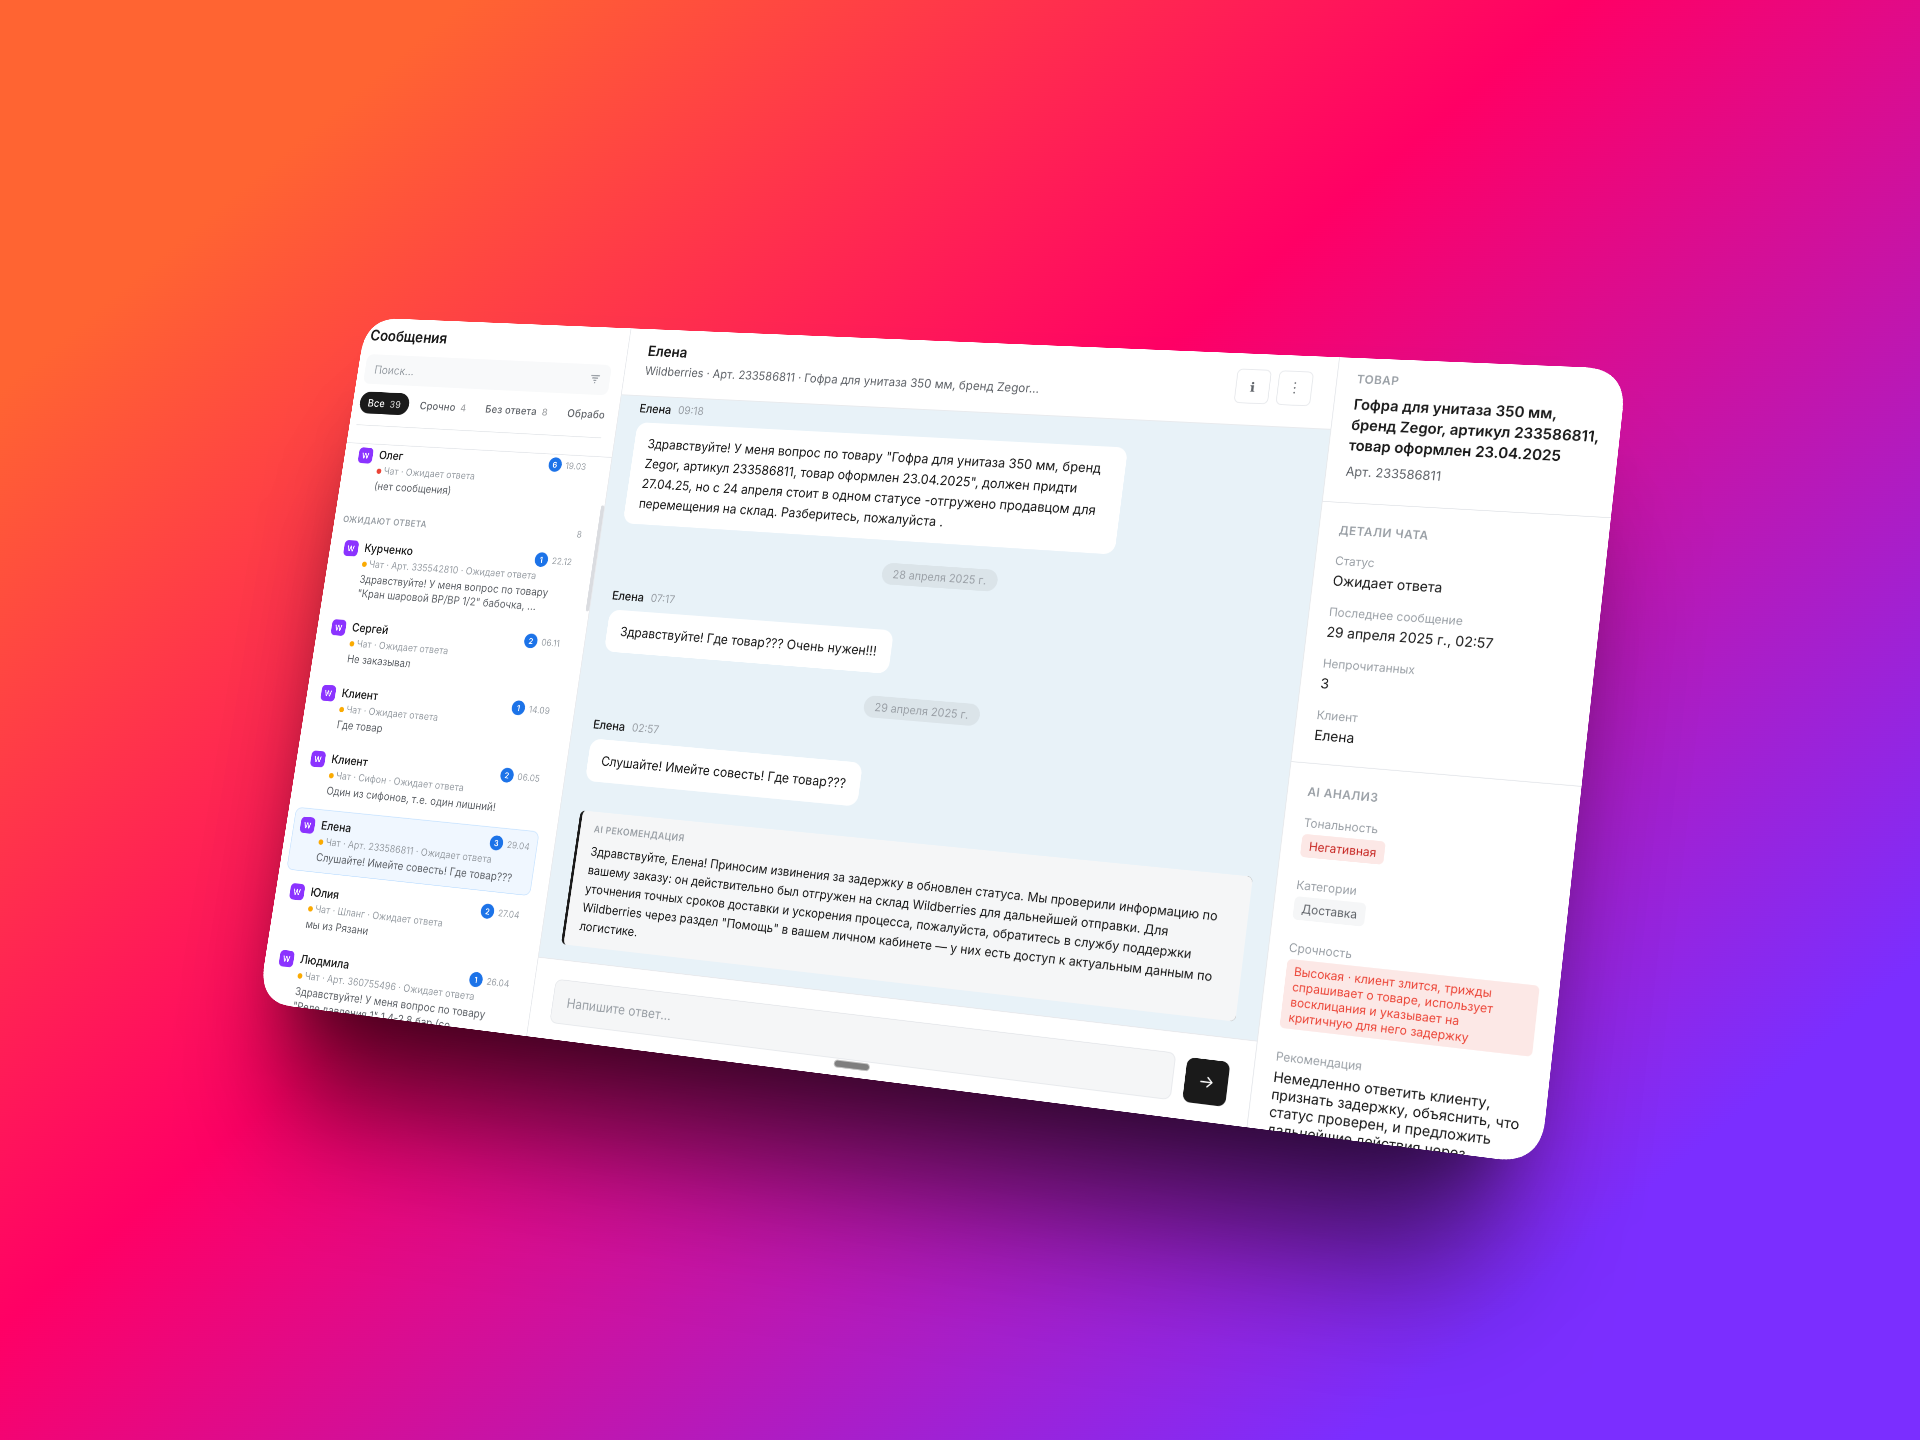
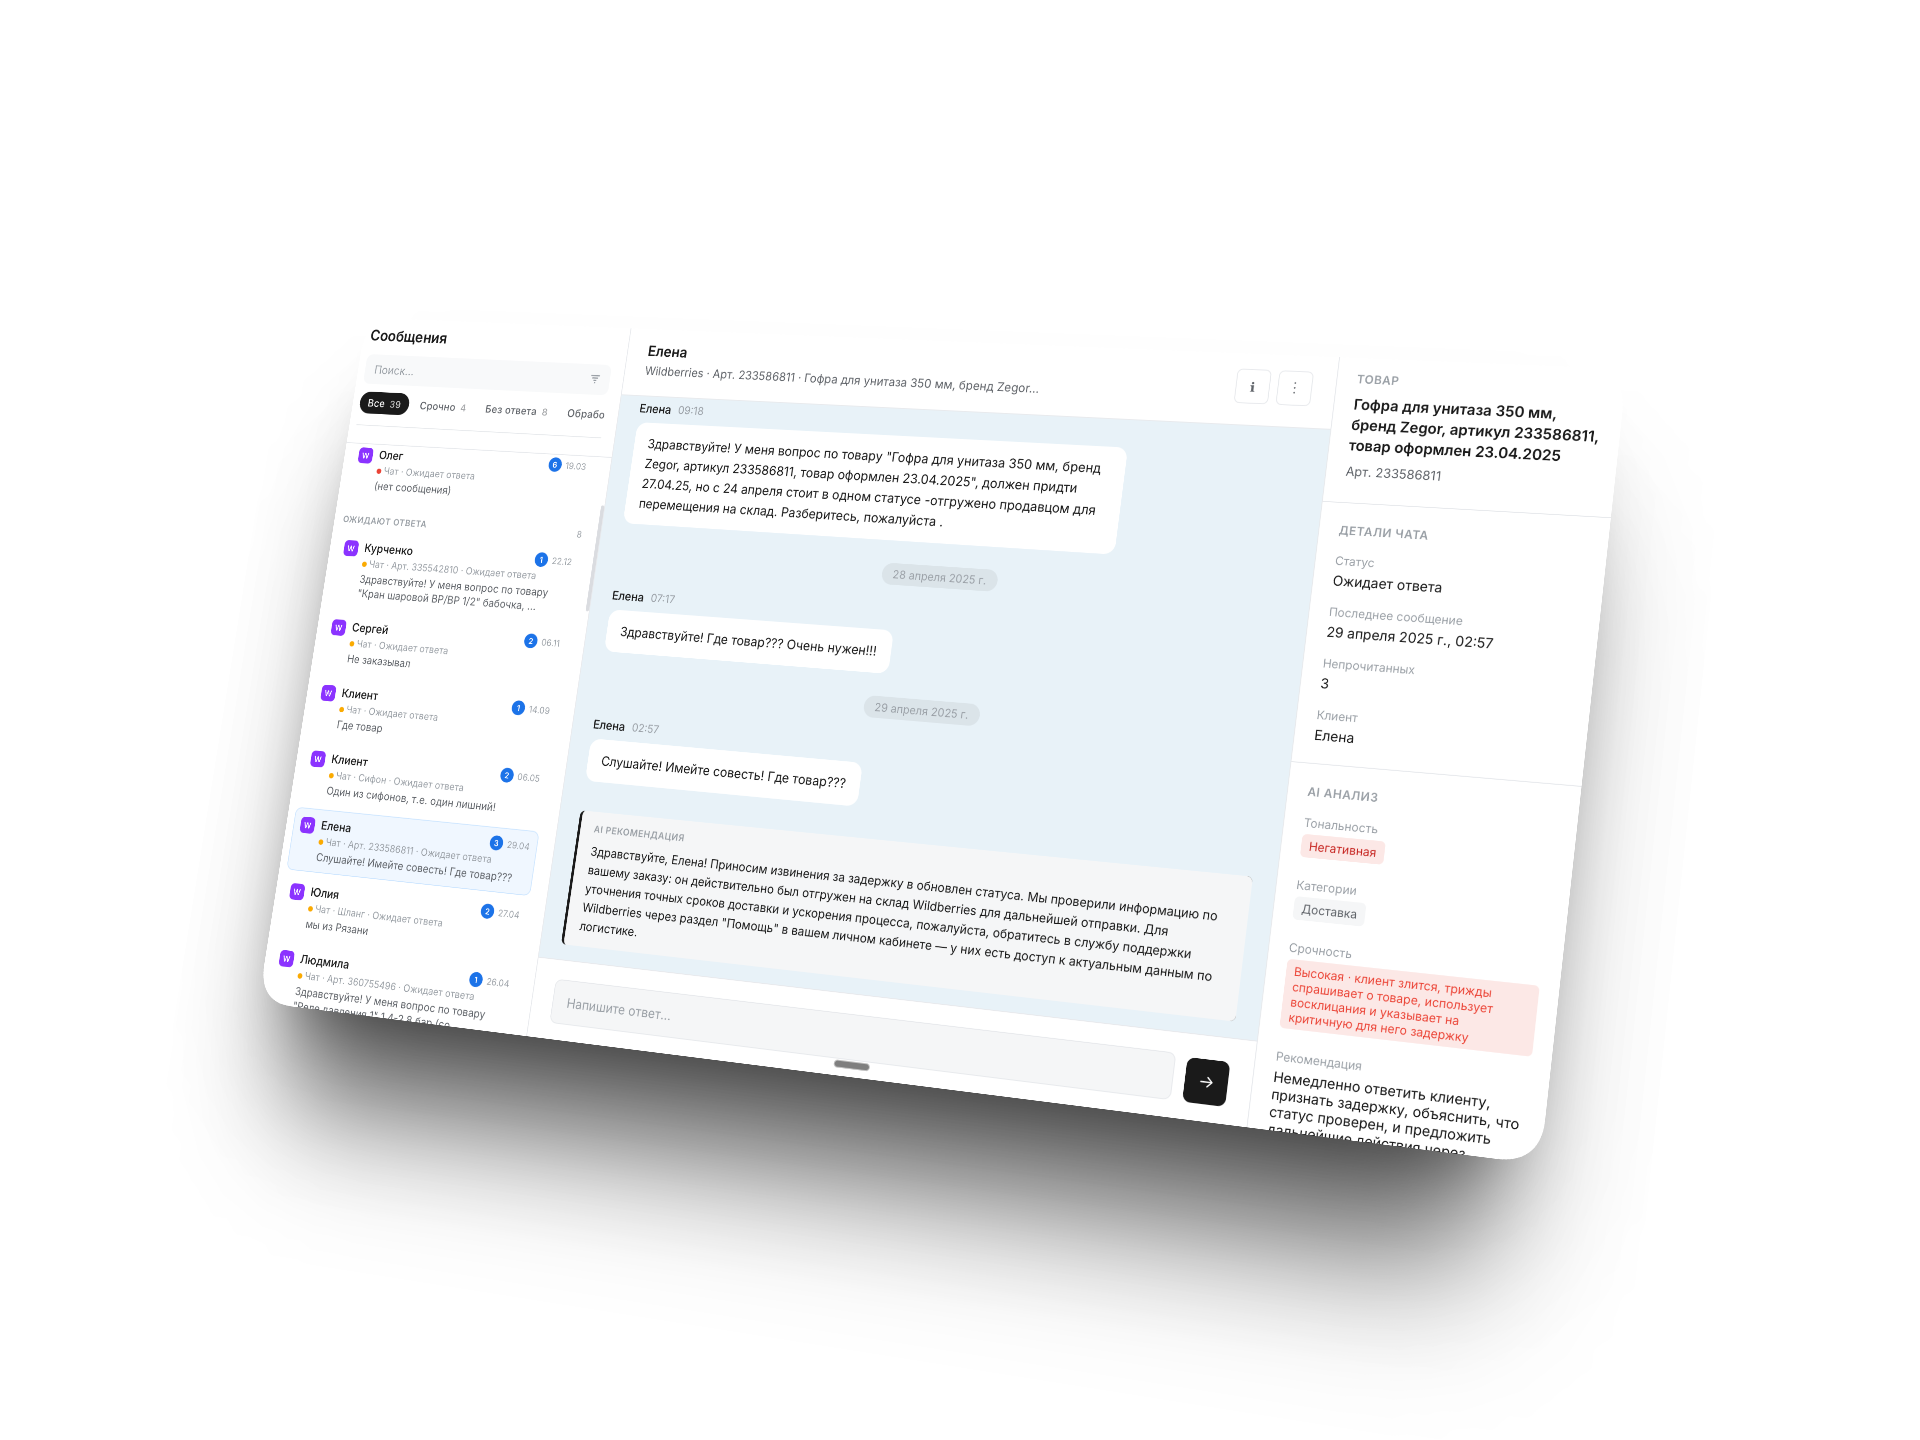
Update screenshots to transparent bg, cleaner slider
- New screenshots with transparent bg and drop shadow
- Removed card border/bg from slides — images float cleanly
- Added slide counter (01/03, 02/03, 03/03)
- Larger text in slide descriptions
- Centered text on mobile

diff --git a/agentiq/docs/prototypes/landing.html b/agentiq/docs/prototypes/landing.html
@@ -988,12 +988,8 @@
 
         .proof-slide {
             display: none;
-            gap: 24px;
+            gap: 20px;
             align-items: center;
-            padding: 24px;
-            background: var(--color-bg-primary);
-            border: 1px solid var(--color-border-medium);
-            border-radius: var(--radius-xl);
         }
 
         .proof-slide.active {
@@ -1021,26 +1017,38 @@
         }
 
         .proof-slide-text {
-            flex: 0 0 240px;
+            flex: 0 0 260px;
+            padding: 8px 0;
         }
 
         @media (max-width: 767px) {
             .proof-slide-text {
                 flex: none;
+                text-align: center;
             }
         }
 
+        .proof-slide-num {
+            display: inline-block;
+            font-size: 11px;
+            font-weight: 600;
+            color: var(--color-accent);
+            margin-bottom: 8px;
+            letter-spacing: 0.5px;
+        }
+
         .proof-slide-text h3 {
-            font-size: 17px;
+            font-size: 18px;
             font-weight: 700;
             margin-bottom: var(--space-2);
             color: var(--color-text-primary);
+            line-height: 1.3;
         }
 
         .proof-slide-text p {
-            font-size: 13px;
+            font-size: 14px;
             color: var(--color-text-secondary);
-            line-height: 1.55;
+            line-height: 1.6;
         }
 
         .proof-nav {
@@ -1958,6 +1966,7 @@
                     <img src="screenshots/chat-center.png" alt="Центр коммуникаций">
                 </div>
                 <div class="proof-slide-text">
+                    <span class="proof-slide-num">01 / 03</span>
                     <h3>Все коммуникации в&nbsp;одном окне</h3>
                     <p>Чаты, вопросы, отзывы — единый поток с&nbsp;приоритизацией. AI-помощник подсказывает контекст и&nbsp;варианты ответа.</p>
                 </div>
@@ -1967,6 +1976,7 @@
                     <img src="screenshots/quality-score.png" alt="Оценка качества ответов">
                 </div>
                 <div class="proof-slide-text">
+                    <span class="proof-slide-num">02 / 03</span>
                     <h3>Оценка качества ответов</h3>
                     <p>Сколько ответов вредит продажам, сколько это стоит в&nbsp;деньгах и&nbsp;где конкретные проблемы.</p>
                 </div>
@@ -1976,6 +1986,7 @@
                     <img src="screenshots/review-analysis.png" alt="Разбор проблемного ответа">
                 </div>
                 <div class="proof-slide-text">
+                    <span class="proof-slide-num">03 / 03</span>
                     <h3>Разбор проблемного ответа</h3>
                     <p>Что не&nbsp;так, почему это вредит, и&nbsp;готовый текст — как стоило ответить.</p>
                 </div>

diff --git a/landing.html b/landing.html
@@ -988,12 +988,8 @@
 
         .proof-slide {
             display: none;
-            gap: 24px;
+            gap: 20px;
             align-items: center;
-            padding: 24px;
-            background: var(--color-bg-primary);
-            border: 1px solid var(--color-border-medium);
-            border-radius: var(--radius-xl);
         }
 
         .proof-slide.active {
@@ -1021,26 +1017,38 @@
         }
 
         .proof-slide-text {
-            flex: 0 0 240px;
+            flex: 0 0 260px;
+            padding: 8px 0;
         }
 
         @media (max-width: 767px) {
             .proof-slide-text {
                 flex: none;
+                text-align: center;
             }
         }
 
+        .proof-slide-num {
+            display: inline-block;
+            font-size: 11px;
+            font-weight: 600;
+            color: var(--color-accent);
+            margin-bottom: 8px;
+            letter-spacing: 0.5px;
+        }
+
         .proof-slide-text h3 {
-            font-size: 17px;
+            font-size: 18px;
             font-weight: 700;
             margin-bottom: var(--space-2);
             color: var(--color-text-primary);
+            line-height: 1.3;
         }
 
         .proof-slide-text p {
-            font-size: 13px;
+            font-size: 14px;
             color: var(--color-text-secondary);
-            line-height: 1.55;
+            line-height: 1.6;
         }
 
         .proof-nav {
@@ -1958,6 +1966,7 @@
                     <img src="screenshots/chat-center.png" alt="Центр коммуникаций">
                 </div>
                 <div class="proof-slide-text">
+                    <span class="proof-slide-num">01 / 03</span>
                     <h3>Все коммуникации в&nbsp;одном окне</h3>
                     <p>Чаты, вопросы, отзывы — единый поток с&nbsp;приоритизацией. AI-помощник подсказывает контекст и&nbsp;варианты ответа.</p>
                 </div>
@@ -1967,6 +1976,7 @@
                     <img src="screenshots/quality-score.png" alt="Оценка качества ответов">
                 </div>
                 <div class="proof-slide-text">
+                    <span class="proof-slide-num">02 / 03</span>
                     <h3>Оценка качества ответов</h3>
                     <p>Сколько ответов вредит продажам, сколько это стоит в&nbsp;деньгах и&nbsp;где конкретные проблемы.</p>
                 </div>
@@ -1976,6 +1986,7 @@
                     <img src="screenshots/review-analysis.png" alt="Разбор проблемного ответа">
                 </div>
                 <div class="proof-slide-text">
+                    <span class="proof-slide-num">03 / 03</span>
                     <h3>Разбор проблемного ответа</h3>
                     <p>Что не&nbsp;так, почему это вредит, и&nbsp;готовый текст — как стоило ответить.</p>
                 </div>
